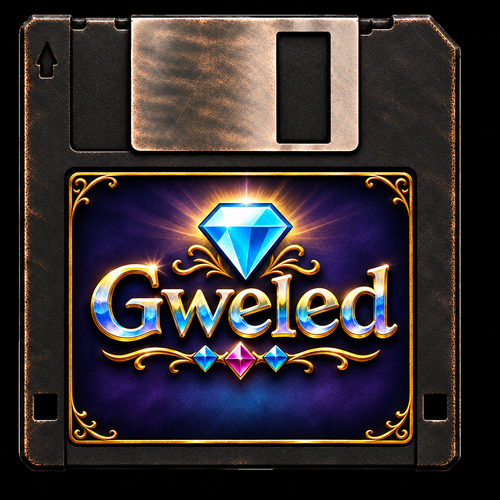
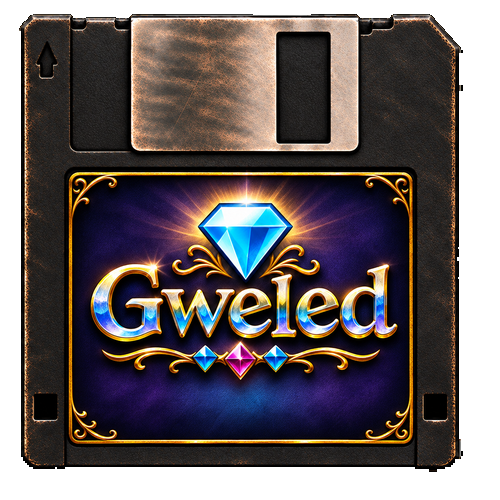
Box art: transparent background so the floppy stands alone (500x500 RGBA)

Changed region(s): [[0.0, 0.0, 1.0, 1.0]]

diff --git a/DEV-NOTES.md b/DEV-NOTES.md
@@ -11,7 +11,7 @@ Original source tree: ~/handhelds/Development/Datafrog/SF3500/ports/gweled/Insta
     ./build_host.sh                                    # desktop, build-host/gweled
     ./build_sf3500.sh                                  # MIPS, build-sf3500/gweled.stripped.mipsel (toolchain in sf3000-work/buildroot)
     ./package.sh                                       # package/Gweled.sh + package/gweled/ (binary, README, NOTICE, licenses, source tarball)
-Box art: package-src/boxart.png = 500x500 of ports/gweled/screenshot.png (the user's floppy-disk art); the card needs sync-boxart.sh.
+Box art: package-src/boxart.png = 500x500 RGBA of ports/gweled/screenshot.png (the user's floppy-disk art, transparent background so the floppy stands alone); the card needs sync-boxart.sh.
 
 ## Layout
 - src/engine.c/.h  rules; E (Eng) holds board, gem objects, score, level, bonus. Own xorshift RNG (same sequence everywhere).
